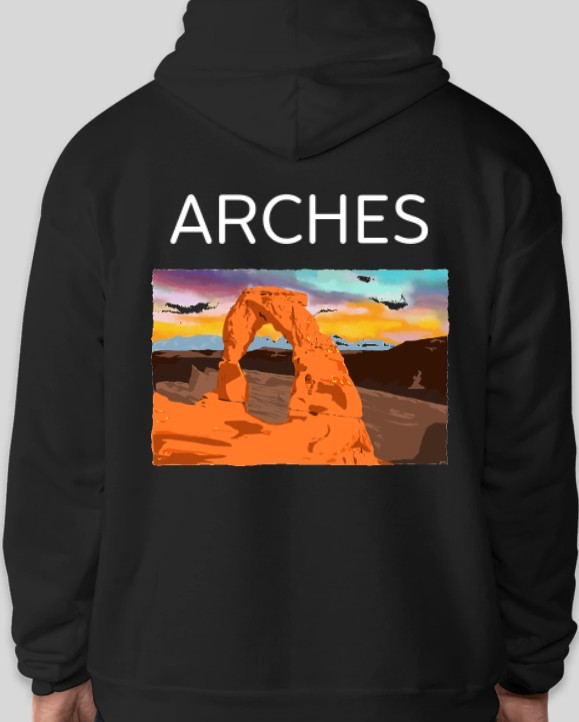
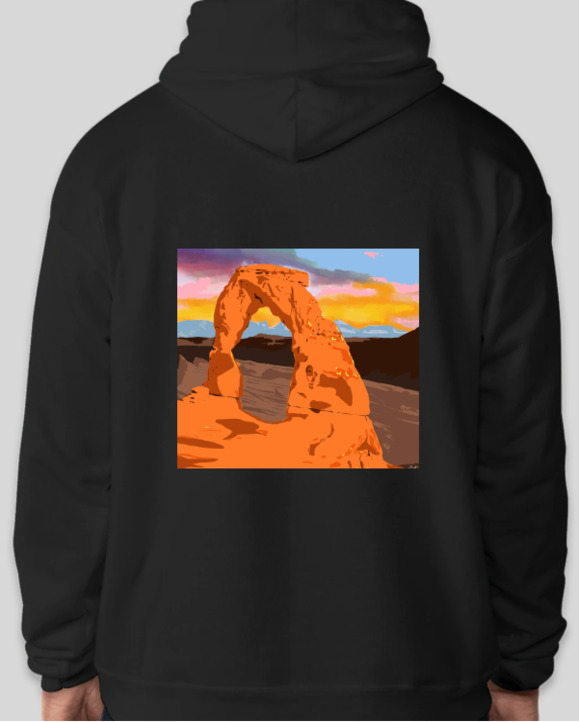
new images

diff --git a/js/order.js b/js/order.js
@@ -59,7 +59,7 @@ function build(values, type, parent) {
     grid.style.gridTemplateColumns = `repeat(${values.length}, 1fr)`;
 }
 
-const designs = ["arches", "outline_dunes", "goldengate", "tetons", "seattle", "oldfaithful", "outline_oldfaithful"];
+const designs = ["arches", "outline_arches", "outline_dunes", "goldengate", "tetons", "outline_tetons", "seattle", "oldfaithful", "outline_oldfaithful"];
 const colors = ["black", "white", "maroon", "sand"];
 // const sizes = ["medium", "large", "xlarge", "xxlarge"];
 
